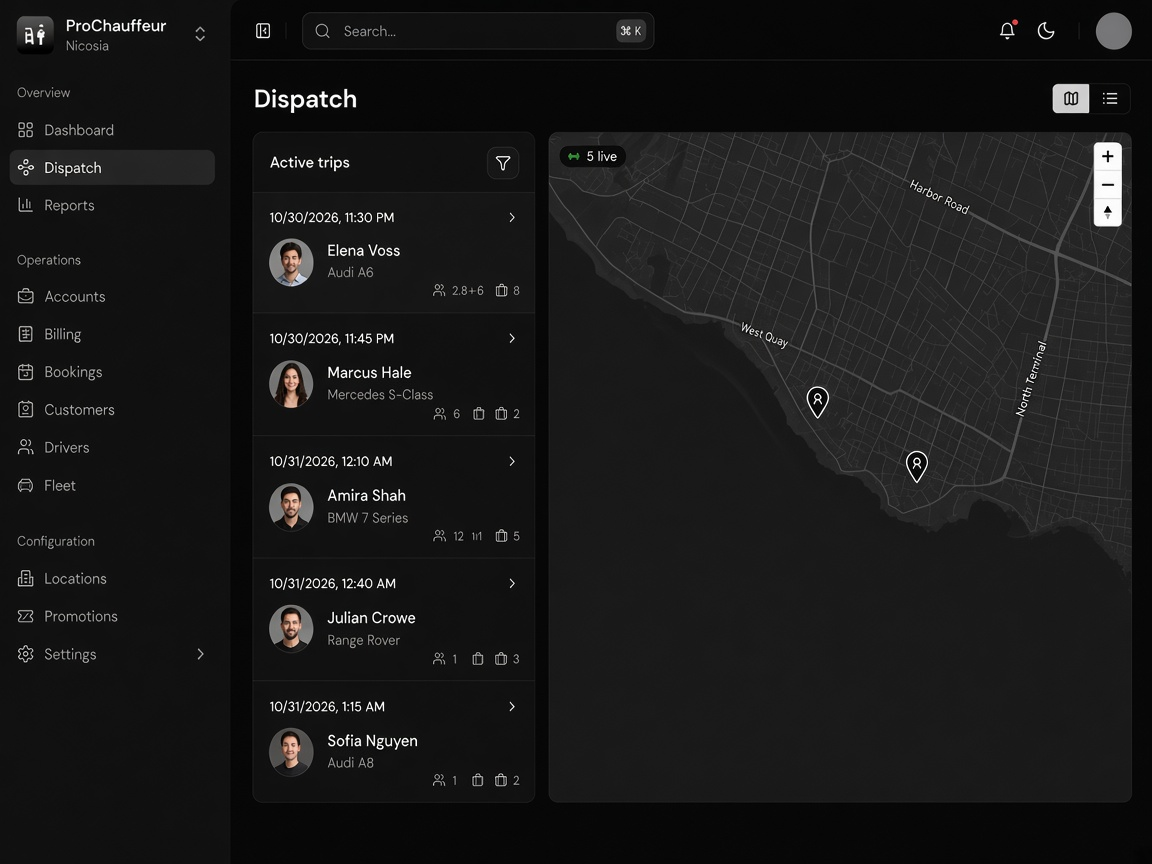
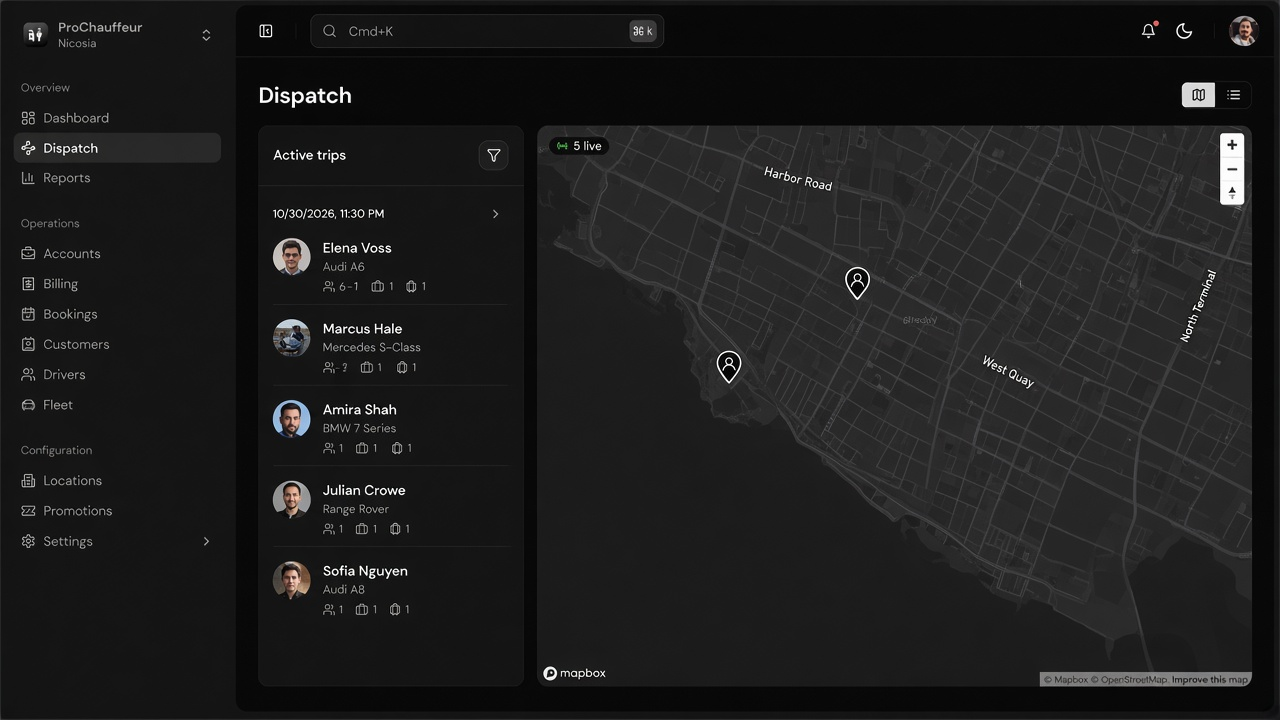
Restore a 16:9 Platform hero still and shorten the headline.
The taller mockup was stretching the dispatch UI; keep the 1280-wide frame with a landscape asset.

diff --git a/src/content/pages.ts b/src/content/pages.ts
@@ -173,7 +173,7 @@ export const copy = {
   },
   platform: {
     eyebrow: "The platform",
-    title: "Everything You Need To Run Your Luxury Transport Operations",
+    title: "Everything You Need To Run Your Luxury Operations",
     body: "Passenger, driver, and dispatch experiences built to work together — not stitched on later.",
     image: "/img/platform-dispatch.jpg",
     imageAlt: "Dispatch board with active trips and a live map",

diff --git a/src/components/sections/Platform.tsx b/src/components/sections/Platform.tsx
@@ -24,8 +24,8 @@ export function Platform() {
           <Image
             src={platform.image}
             alt={platform.imageAlt}
-            width={1152}
-            height={864}
+            width={1280}
+            height={720}
             priority
             sizes="(max-width: 1280px) 100vw, 1280px"
             className="h-auto w-full"
